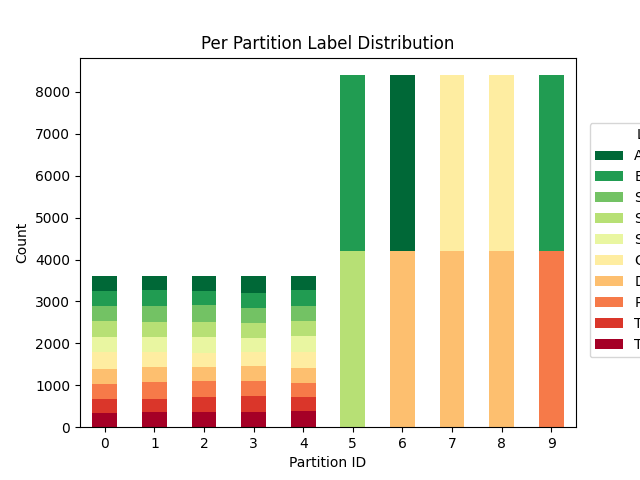
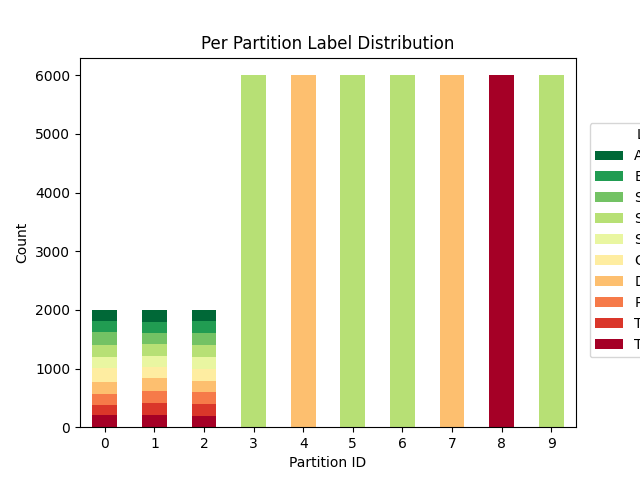
Experiments PoC vs PoCZk

diff --git a/clientcontributionfl/utils/train_utils.py b/clientcontributionfl/utils/train_utils.py
@@ -8,6 +8,11 @@ from flwr.common.config import get_project_config
 from flwr.common import (NDArrays)
 from functools import reduce
 from enum import Enum, auto
+from .file_utils import generate_file_suffix
+
+
+def moving_average(data, window_size):
+    return np.convolve(data, np.ones(window_size) / window_size, mode='valid')
 
 def get_model_class(models, dataset_name):
     if dataset_name in ["MNIST", "FMNIST"]:
@@ -94,37 +99,12 @@ def plot_comparison_from_files(save_plot_path: Path, config: dict[str, any], str
         List of strategies to compare
     """
 
-    num_rounds=config['num_rounds']
-    partitioner=config['partitioner']
-    secaggplus=config['secaggplus']
-    alpha=config['alpha']
-    x_non_iid = config["x_non_iid"]
-    iid_ratio = config["iid_ratio"]
-    dishonest = config["dishonest"]
     dataset = config["dataset_name"]
-    balanced = config["balanced"]
-
-    include_alpha = (f"_alpha={alpha}" if partitioner == "dirichlet" else "")
-    include_x = (f"_x={x_non_iid}" if partitioner == "iid_and_non_iid" else "")
-    include_iid_ratio = (f"_iid_ratio={iid_ratio}" if partitioner == "iid_and_non_iid" else "")
-    include_dishonest = (f"_dishonest" if dishonest else "")
-    include_sec_agg = ("SecAgg" if secaggplus else "")
-    include_balanced = (f"_bal={balanced}" if partitioner == "iid_and_non_iid" else "")
+    smoothed_plot = config["smoothed_plots"]
+    file_suffix = generate_file_suffix(config)
 
     _, (ax1, ax2) = plt.subplots(2, 1, figsize=(8, 10))
     
-    file_suffix = (
-        f"R={num_rounds}"
-        f"_P={partitioner}"
-        f"_D={dataset}"
-        + include_sec_agg
-        + include_alpha 
-        + include_x 
-        + include_iid_ratio 
-        + include_dishonest
-        + include_balanced
-    )
-
     result_path = save_plot_path / Path("simulation") / Path(file_suffix.lstrip('_'))
 
     for strategy in strategies:
@@ -133,14 +113,21 @@ def plot_comparison_from_files(save_plot_path: Path, config: dict[str, any], str
         
         history = np.load(file_path, allow_pickle=True).item()
         
-        # Plot centralized accuracy
         rounds_acc, values_acc = zip(*history.metrics_centralized["accuracy"])
-        ax1.plot(np.asarray(rounds_acc), np.asarray(values_acc), label=strategy)
-
-        # Plot centralized loss
         rounds_loss, values_loss = zip(*history.losses_centralized)
         
-        ax2.plot(np.asarray(rounds_loss), np.asarray(values_loss), label=strategy)
+        rounds_acc, values_acc = np.asarray(rounds_acc), np.asarray(values_acc)
+        rounds_loss, values_loss = np.asarray(rounds_loss), np.asarray(values_loss)
+        
+        if smoothed_plot:
+            window_size = 3
+            values_acc = moving_average(values_acc, window_size)
+            values_loss = moving_average(values_loss, window_size)
+            rounds_acc = rounds_acc[:len(values_acc)]
+            rounds_loss = rounds_loss[:len(values_loss)]
+        
+        ax1.plot(rounds_acc, values_acc, label=strategy)
+        ax2.plot(rounds_loss, values_loss, label=strategy)
 
     ax1.set_title(f"Centralized Validation Accuracy - {dataset}")
     ax1.set_xlabel("Rounds")
@@ -152,7 +139,7 @@ def plot_comparison_from_files(save_plot_path: Path, config: dict[str, any], str
     ax2.set_xlabel("Rounds")
     ax2.set_ylabel("Loss")
     ax2.legend(loc="upper right")
-    ax2.set_ylim([0, 5])
+    ax2.set_ylim([0, 9])
 
     plt.tight_layout()
     

diff --git a/clientcontributionfl/server_app.py b/clientcontributionfl/server_app.py
@@ -9,6 +9,7 @@ from flwr.server import Driver, LegacyContext, ServerApp, ServerConfig
 from flwr.server.workflow import SecAggPlusWorkflow
 from clientcontributionfl.server_strategy import DefaultWorkflow, PoCWorkflow
 from pprint import PrettyPrinter
+from clientcontributionfl.utils import generate_file_suffix
 
 app = ServerApp()
 
@@ -18,7 +19,6 @@ def main(driver: Driver, context: Context):
     config = context.run_config
     print_config(config)
     
-
     # Step 2: Extract run parameters
     run_params = extract_run_params(config)
     
@@ -53,6 +53,7 @@ def extract_run_params(config):
         "alpha": config.get("alpha", 0.05),
         "x_non_iid": config.get("x_non_iid", 2),
         "iid_ratio": config.get("iid_ratio", 0.5),
+        "iid_data_fraction": config.get("iid_data_fraction", 0.5),
         "dishonest": config.get("dishonest", False),
         "balanced": config.get("balanced", False),
         "dataset_name": config.get("dataset_name", ""),
@@ -72,7 +73,7 @@ def create_workflow(params):
         max_weight=params['max_weight'],
     ) if params['secaggplus'] else None
     
-    if params['strategy_name'] == "PoC":
+    if "PoC" in params['strategy_name']:
         workflow = PoCWorkflow(fit_workflow=fit_workflow)
     else:
         workflow = DefaultWorkflow(fit_workflow=fit_workflow)
@@ -80,35 +81,9 @@ def create_workflow(params):
     return workflow
 
 def save_history(history, params):
-    num_rounds= params['num_rounds']
-    partitioner = params["partitioner"]
-    secaggplus=params['secaggplus']
-    alpha = params["alpha"]
-    x_non_iid = params["x_non_iid"]
-    iid_ratio = params["iid_ratio"]
-    dishonest = params["dishonest"]
-    strategy = params["strategy_name"]
-    dataset = params["dataset_name"]
-    balanced = params["balanced"]
 
-    include_alpha = (f"_alpha={alpha}" if partitioner == "dirichlet" else "")
-    include_x = (f"_x={x_non_iid}" if partitioner == "iid_and_non_iid" else "")
-    include_iid_ratio = (f"_iid_ratio={iid_ratio}" if partitioner == "iid_and_non_iid" else "")
-    include_dishonest = (f"_dishonest" if dishonest else "")
-    include_sec_agg = ("SecAgg" if secaggplus else "")
-    include_balanced = (f"_bal={balanced}" if partitioner == "iid_and_non_iid" else "")
-    
-    file_suffix = (
-        f"R={num_rounds}"
-        f"_P={partitioner}"
-        f"_D={dataset}"
-        + include_sec_agg
-        + include_alpha 
-        + include_x 
-        + include_iid_ratio 
-        + include_dishonest
-        + include_balanced
-    )
+    strategy = params["strategy_name"]
+    file_suffix = generate_file_suffix(params)
 
     save_dir = Path(params['save_path']) / Path("simulation") / Path(file_suffix.lstrip('_'))
     save_dir.mkdir(parents=True, exist_ok=True)

diff --git a/main.py b/main.py
@@ -10,7 +10,6 @@ def list_of_strings(arg):
 
 def run_simulation(args, strategy):
 
-
     command = [
         "flower-simulation",           
         "--app", ".",                  
@@ -22,12 +21,14 @@ def run_simulation(args, strategy):
             f'strategy="{strategy}" '
             f'fraction_fit={args.fraction_fit} '
             f'iid_ratio={args.iid_ratio} '
+            f'x_non_iid={args.x} '
+            f'iid_data_fraction={args.iid_data_fraction} '
             f'dishonest={str(args.dishonest).lower()} '
             f'dataset_name="{args.dataset}" '
-            f'd={args.d}'
+            f'd={args.d} '
+            f'thr={args.thr}'
         )
     ]
-    
     
     result = subprocess.run(command, stderr=subprocess.STDOUT, stdout=None, text=True)
     
@@ -54,7 +55,10 @@ def main():
     parser.add_argument("--iid_data_fraction", type=float, default=0.5, help="Fraction of total data allocated to IID clients (relative to non-IID clients).")
     parser.add_argument("--dishonest", action="store_true",default=False, help="If true all non-IID node under iid_and_non_iid partitioner are dishonest and submit a fake score to the server.")
     parser.add_argument("--dataset", type=str, default="MNIST", choices=["MNIST", "CIFAR10", "FMNIST"], help="Dataset to use for the simulation.")
+    parser.add_argument("--x", type=int, default=2, help="Number of labels of non iid clients.")
     parser.add_argument("--d", type=int, default=5, help="Size of the candidate set used in PoC. Must be: max(CK, 1) <= d <= K where C is the fraction_fit of clients")
+    parser.add_argument("--thr", type=int, default=400, help="Num of minimum label to have positive contribution. Used only for ZkAvg, PocZk, ContAvg strategies.")
+    parser.add_argument("--smoothed_plot", action="store_true", default=False, help="If true plots are computed with a moving average to highlight the trend.")
     args = parser.parse_args()
 
     if not check_arguments(args):
@@ -63,8 +67,8 @@ def main():
 
     # 3. Run simulation for each strategy
     strategies = args.strategies
-    for strategy in strategies:
-        run_simulation(args, strategy)
+    # for strategy in strategies:
+    #     run_simulation(args, strategy)
 
     # 4. overrides configuration with current parameters 
     config = get_project_config(".")["tool"]["flwr"]["app"]["config"]
@@ -75,7 +79,9 @@ def main():
         "dataset_name": args.dataset,
         "partitioner": args.partitioner,
         "balanced": args.balanced,
-        "dishonest": args.dishonest
+        "dishonest": args.dishonest,
+        "iid_data_fraction": args.iid_data_fraction,
+        "smoothed_plots": args.smoothed_plot
     })
 
 

diff --git a/clientcontributionfl/utils/file_utils.py b/clientcontributionfl/utils/file_utils.py
@@ -3,6 +3,65 @@ import os
 import json
 from typing import List
 
+
+def generate_file_suffix(params: dict) -> str:
+    """
+    Generate a file suffix based on the provided parameters.
+
+    Parameters
+    ----------
+    params : dict
+        Dictionary containing the following keys:
+        - num_rounds: int
+        - partitioner: str
+        - dataset: str
+        - secaggplus: bool
+        - alpha: float, optional
+        - x_non_iid: int, optional
+        - iid_ratio: float, optional
+        - dishonest: bool, optional
+        - balanced: bool, optional
+        - iid_data_fraction: float, optional
+
+    Returns
+    -------
+    str
+        Generated file suffix.
+    """
+    num_rounds = params["num_rounds"]
+    partitioner = params["partitioner"]
+    dataset = params["dataset_name"]
+    secaggplus = params.get("secaggplus", False)
+    alpha = params.get("alpha", None)
+    x_non_iid = params.get("x_non_iid", None)
+    iid_ratio = params.get("iid_ratio", None)
+    dishonest = params.get("dishonest", False)
+    balanced = params.get("balanced", False)
+    iid_data_fraction = params.get("iid_data_fraction", None)
+
+    include_alpha = (f"_alpha={alpha}" if partitioner == "dirichlet" and alpha is not None else "")
+    include_x = (f"_x={x_non_iid}" if partitioner == "iid_and_non_iid" and x_non_iid is not None else "")
+    include_iid_ratio = (f"_iid_ratio={iid_ratio}" if partitioner == "iid_and_non_iid" and iid_ratio is not None else "")
+    include_dishonest = (f"_dishonest" if dishonest else "")
+    include_sec_agg = ("SecAgg" if secaggplus else "")
+    include_balanced = (f"_bal={balanced}" if partitioner == "iid_and_non_iid" else "")
+    include_iid_data_fraction = (f"_iid_df={iid_data_fraction}" if include_balanced and iid_data_fraction is not None else "")
+
+    file_suffix = (
+        f"R={num_rounds}"
+        f"_P={partitioner}"
+        f"_D={dataset}"
+        + include_sec_agg
+        + include_alpha 
+        + include_x 
+        + include_iid_ratio 
+        + include_dishonest
+        + include_balanced
+        + include_iid_data_fraction
+    )
+    
+    return file_suffix
+
 def cleanup_proofs():
     """Remove the proofs directory and all its contents if it exists."""
     proofs_dir = os.path.join(os.getcwd(), "proofs")

diff --git a/clientcontributionfl/server_strategy/poc_strategy.py b/clientcontributionfl/server_strategy/poc_strategy.py
@@ -196,7 +196,7 @@ class PoCZk(ZkAvg):
         for c in clients:
             score = self.client_data[c.cid][1]
             proof_is_valid = self.client_data[c.cid][2]
-            # TODO just not select invalid clients, then use also score
+            
             if proof_is_valid:
                 filtered_clients.append(c)
                 total += score
@@ -207,10 +207,18 @@ class PoCZk(ZkAvg):
         """
         Sample d clients from the client manager using probabilities proportional to their scores.
         """
+        
         if round == 1:
             all_clients = list(client_manager.all().values())
             self.filtered_clients, total = self._filter_clients(all_clients)
-            self.filtered_probabilities = [self.client_data[client.cid][1] / total for client in self.filtered_clients]
+            
+            # probabilities already normalized
+            if len(self.filtered_clients) == len(self.client_data):
+                self.filtered_probabilities = [self.client_data[client.cid][1] for client in self.filtered_clients]    
+            else:
+                self.filtered_probabilities = [self.client_data[client.cid][1] / total for client in self.filtered_clients]
+            
+            PrettyPrinter(indent=4).pprint(self.filtered_probabilities)
         
         sampled_clients = np.random.choice(self.filtered_clients, p=self.filtered_probabilities, size=d, replace=False)
         

diff --git a/clientcontributionfl/server_utils.py b/clientcontributionfl/server_utils.py
@@ -110,7 +110,6 @@ def get_strategy(
         testloader: DataLoader
     ) -> Strategy:
 
-    #strategy_class = None
     common_args = {
         'fraction_fit': cfg['fraction_fit'],
         'fraction_evaluate': cfg['fraction_evaluate'],
@@ -122,29 +121,17 @@ def get_strategy(
         'evaluate_metrics_aggregation_fn': get_evaluate_metrics_aggregation(cfg),
     }
 
+    strategy_class = None
+
     if cfg['strategy'] == 'FedAvg':
         strategy_class = FedAvg
-    
-    elif cfg['strategy'] == 'ContAvg':
-        
+    elif cfg['strategy'] in ['ContAvg', 'ZkAvg']:
         common_args["fraction_fit"] = 1.0 
         common_args['selection_thr'] = cfg['selection_thr']
-        strategy_class = ContributionAvg
-
-    elif cfg['strategy'] == 'ZkAvg':
-        
-        common_args["fraction_fit"] = 1.0 
-        common_args['selection_thr'] = cfg['selection_thr']
-
-        strategy_class = ZkAvg
-    
-    elif cfg['strategy'] == 'PoC':
+        strategy_class = ContributionAvg if cfg['strategy'] == 'ContAvg' else ZkAvg
+    elif cfg['strategy'] in ['PoC', 'PoCZk']:
         common_args['d'] = cfg['d']
-        strategy_class = PoC
-    elif cfg['strategy'] == 'PoCZk':
-        
-        common_args['d'] = cfg['d']
-        strategy_class = PoCZk
+        strategy_class = PoC if cfg['strategy'] == 'PoC' else PoCZk
 
     return strategy_class(**common_args)
 

diff --git a/clientcontributionfl/utils/__init__.py b/clientcontributionfl/utils/__init__.py
@@ -1,3 +1,3 @@
 from .score import compute_score, compute_contribution
-from .file_utils import cleanup_proofs, extract_score_from_proof, forge_score_in_proof, check_arguments
+from .file_utils import cleanup_proofs, extract_score_from_proof, forge_score_in_proof, check_arguments, generate_file_suffix
 from .train_utils import plot_comparison_from_files, plot_for_varying_alphas, aggregate, SelectionPhase, string_to_enum, get_model_class
